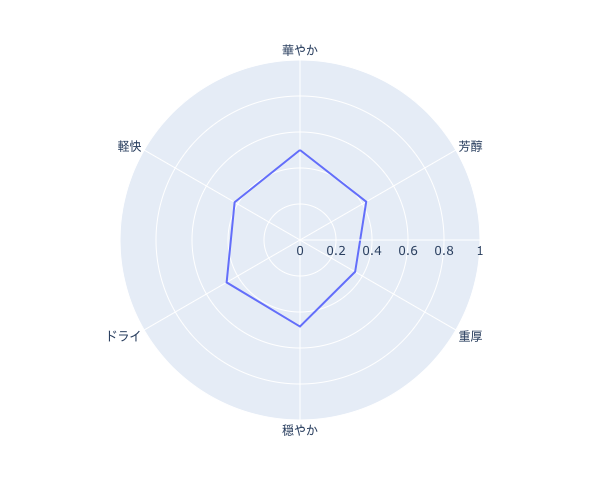
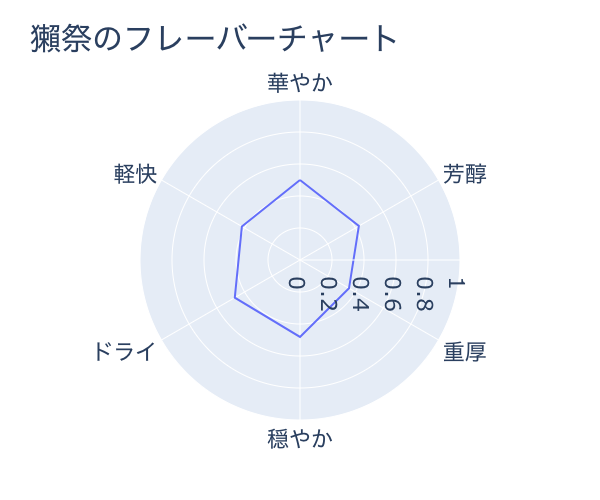
フレーバー情報の有無の条件追加

diff --git a/app.py b/app.py
@@ -52,7 +52,7 @@ def callback():
 def handle_message(event):
     search_condition = rm.search_brand(event)
 
-    # 完全一致の銘柄が見つかった場合
+    # 完全一致の銘柄が見つかり、フレーバー情報を持っている場合
     if search_condition[0] == 0:
         brand_name = search_condition[1]
         line_bot_api.reply_message(
@@ -66,22 +66,33 @@ def handle_message(event):
             ]
         )
 
+    # 完全一致の銘柄が見つかり、フレーバー情報を持っていない場合
+    if search_condition[0] == 1:
+        brand_name = search_condition[1]
+        line_bot_api.reply_message(
+            event.reply_token,
+            [
+                TextSendMessage(text=("該当する銘柄が見つかりました。\n\n" + brand_name)),
+                TextSendMessage(text=("この銘柄のフレーバー情報はありません。"))
+            ]
+        )
+
     # 完全一致の銘柄、部分一致の銘柄ともに見つからなかった場合
-    elif search_condition[0] == 1:
+    elif search_condition[0] == 2:
         line_bot_api.reply_message(
             event.reply_token,
             TextSendMessage(text="一致する銘柄は見つかりませんでした。別の検索ワードをお試しください。")
         )
 
     # 完全一致の銘柄が見つからず、かつ部分一致の銘柄が31種類以上見つかった場合
-    elif search_condition[0] == 2:
+    elif search_condition[0] == 3:
         line_bot_api.reply_message(
             event.reply_token,
             TextSendMessage(text="一致する銘柄が見つかりませんでした。また、部分一致となる銘柄が多すぎます。別の検索ワードをお試しください。")
         )
 
     # 完全一致の銘柄が見つからず、かつ部分一致の銘柄が30種類以下見つかった場合
-    elif search_condition[0] == 3:
+    elif search_condition[0] == 4:
         brand_list = search_condition[1]
         line_bot_api.reply_message(
             event.reply_token,

diff --git a/get_sakenowa_api.py b/get_sakenowa_api.py
@@ -48,20 +48,34 @@ def get_brands(brewery_id):
         selected_brands.insert(0, {"id":"","name":"選択してください","breweryId":""})
         return selected_brands
 
-def get_flavors(brand_id, brands):
+def get_flavor(brand):
     url = urls["フレーバー情報"]
     responce_flavors = requests.get(url).json()
     flavors = responce_flavors["flavorCharts"]
-    brand_name = ""
-    for brand in brands:
-        if brand["id"] == brand_id:
-            brand_name = brand["name"]
+    brand_id = brand["id"]
+    brand_name = brand["name"]
     for flavor in flavors:
         if flavor["brandId"] == brand_id:
-            flavor["flavor"] = "true"
+            flavor["flavorIs?"] = "true"
             flavor["brandName"] = brand_name
             return flavor
-    return { "brandId":brand_id, "brandName":brand_name, "flavor":""}
+    return { "brandId":brand_id, "brandName":brand_name, "flavorIs?":"false"}
+
+# 引用元そのまま
+# def get_flavors(brand_id, brands):
+#    url = urls["フレーバー情報"]
+#    responce_flavors = requests.get(url).json()
+#    flavors = responce_flavors["flavorCharts"]
+#    brand_name = ""
+#    for brand in brands:
+#        if brand["id"] == brand_id:
+#            brand_name = brand["name"]
+#    for flavor in flavors:
+#        if flavor["brandId"] == brand_id:
+#            flavor["flavor"] = "true"
+#            flavor["brandName"] = brand_name
+#            return flavor
+#    return { "brandId":brand_id, "brandName":brand_name, "flavor":""}
 
 def get_flavor_tags(brand_id):
     url = urls["フレーバータグ"]

diff --git a/reply_messages.py b/reply_messages.py
@@ -1,4 +1,5 @@
 import get_sakenowa_api as gs
+import flavor_chart as fc
 
 #銘柄リストの返却
 
@@ -6,18 +7,25 @@ def search_brand(event):
     search_word = event.message.text
     search_brands = gs.search_brands(search_word)
 
-    # 該当する銘柄が1件だった場合、フレーバー情報を返却
+    # 該当する銘柄が1件だった場合
     if len(search_brands) == 1:
-        search_brand = search_brands[0]
-        return 0, search_brand["name"]
+        searched_brand = search_brands[0]
+        flavor = gs.get_flavor(searched_brand)
+        # フレーバー情報がある場合
+        if flavor["flavorIs?"] == "true":
+            fc.get_flavor_chart(flavor)
+            return 0, flavor["brandName"]
+        # フレーバー情報がない場合
+        else:
+            return 1, flavor["brandName"]
 
     # 検索ワードに一致する銘柄がない場合、その旨を返却
     elif len(search_brands) == 0:
-        return 1, "" # "該当する銘柄が見つかりませんでした。"
+        return 2, "" # "該当する銘柄が見つかりませんでした。"
 
     # 候補が多すぎる場合、その旨を返却
     elif len(search_brands) >= 31:
-        return 2, ""
+        return 3, ""
 
     # 銘柄数が30以下の場合、銘柄リストを返却
     elif len(search_brands) <= 30:
@@ -25,4 +33,4 @@ def search_brand(event):
         for brand in search_brands:
             brand_list += brand["name"] + "\n"
         brand_list = brand_list.rstrip()
-        return 3, brand_list
+        return 4, brand_list

diff --git a/flavor_chart.py b/flavor_chart.py
@@ -8,13 +8,15 @@ import get_sakenowa_api
 def get_flavor_chart(flavor):
     flavor_chart = [flavor]
     df = pd.DataFrame(flavor_chart)
-    df = df.drop( ['brandId', 'brandName', 'flavor'], axis=1)
+    df = df.drop( ['brandId', 'brandName', 'flavorIs?'], axis=1)
     df = df.rename(columns={'f1':'華やか', 'f2':'芳醇', 'f3':'重厚', 'f4':'穏やか', 'f5':'ドライ', 'f6':'軽快'}).T
 
-    fig = px.line_polar(df, r=df[0], theta=df.index, line_close=True, range_r=[0,1])
-    fig.update_layout(width=600)
+    fig = px.line_polar(df, r=df[0], theta=df.index, line_close=True, range_r=[0,1], title=(flavor["brandName"] + "のフレーバーチャート"))
+    fig.update_layout(width=600, font=dict(size=22))
     fig.write_image('static/flavor_chart.png')
 
+
+# テスト
 flavor = {
     "brandId": 2,
     "f1": 0.5,
@@ -23,8 +25,8 @@ flavor = {
     "f4": 0.480473334729331,
     "f5": 0.47061712325654,
     "f6": 0.419411247406479,
-    "flavor" : "true",
-    "brandName" : "test"
+    "flavorIs?" : "true",
+    "brandName" : "獺祭"
     }
 
 get_flavor_chart(flavor)
